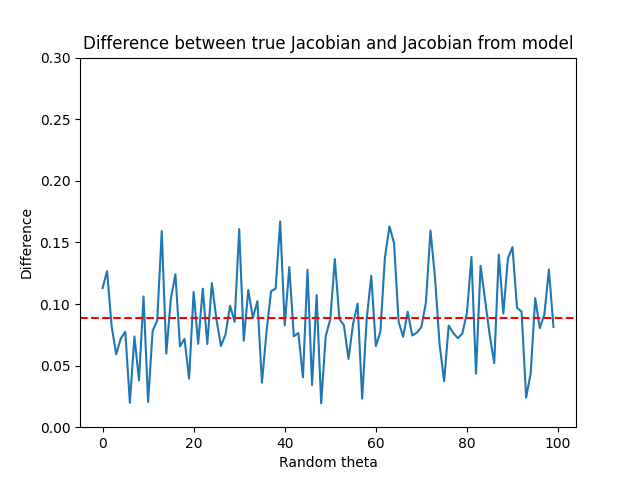
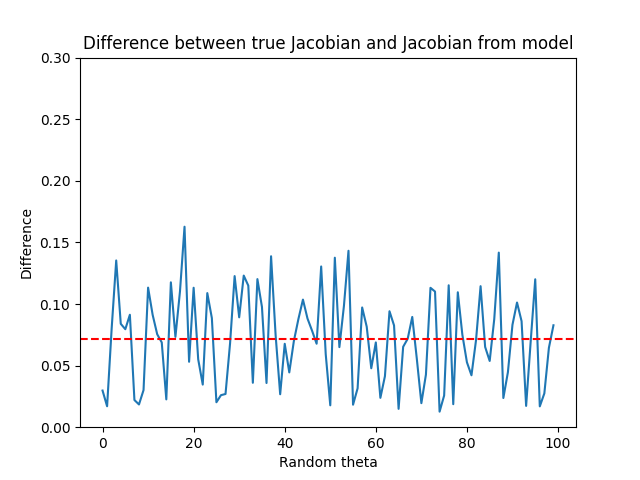
better inv_kin

Changed region(s): [[0.1562, 0.4688, 0.875, 0.8438]]

diff --git a/src/run.py b/src/run.py
@@ -1,6 +1,7 @@
 import parse
 import models
 import jacobian
+import inverse_kin
 import numpy as np
 import matplotlib.pyplot as plt
 import tensorflow as tf
@@ -135,123 +136,65 @@ if __name__ == "__main__":
     # ------------------------------------------------------------------------
     # Inverse Kinematics
 
-    newton = True
-    dbg = False
+    NEWTON = False
+    NUM_IT = 500
+    STRESS_TEST = False
 
-    max_it_reached = 0
-    err_avg_max_it = None
-    err_avg_break = None
+    if STRESS_TEST:
 
-    for _ in range(100):
+        err_avg_break = 0
+        err_avg_max_it = 0
+        tot_max_it_reached = 0
 
-        curr_theta = np.random.random((NJOINT,)).astype(np.float32) * 2 * np.pi
-        curr_theta = tf.Variable(curr_theta)
+        for i in range(100):
+
+            in_theta = np.random.random((NJOINT,)).astype(np.float32) * 2 * np.pi
+            goal_pos = np.random.random((DIM,)).astype(np.float32)
+            goal_pos = goal_pos / np.linalg.norm(goal_pos) * 0.1*NJOINT * np.random.random()
+
+            final_theta, err, max_it_reached = inverse_kin.inverse_kinematic(model, in_theta, goal_pos,
+                                                                            newton=NEWTON, num_it=NUM_IT)
+
+            if max_it_reached == 1:
+                err_avg_max_it = (tot_max_it_reached*err_avg_max_it + err) / (tot_max_it_reached+1)
+                tot_max_it_reached += 1
+            else:
+                break_reached = i - tot_max_it_reached
+                err_avg_break = (break_reached*err_avg_break + err) / (break_reached+1)
+
+
+        print(f"Max iteration reached: {tot_max_it_reached} / 100")
+        print("Average error at max iteration:", err_avg_max_it)
+        print("Average error at break:", err_avg_break)
+
+        # 100 iterations, Newton-Raphson
+        # Max iteration reached: 64 / 100
+        # Average error at max iteration: 0.318262
+        # Average error at break: -4.885498e-07
+
+        # 500 iterations, Newton-Raphson
+        # Max iteration reached: 70 / 100
+        # Average error at max iteration: 0.31624046
+        # Average error at break: -1.8805721e-07
+
+        # 100 iterations, Levenberg-Marquardt
+        # Max iteration reached: 82 / 100 
+        # Average error at max iteration: 0.06085123
+        # Average error at break: 0.00099721
+
+        # 500 iterations, Levenberg-Marquardt
+        # Max iteration reached: 33 / 100
+        # Average error at max iteration: 0.118702054
+        # Average error at break: 0.00098943
+    
+    else:
+        in_theta = np.random.random((NJOINT,)).astype(np.float32) * 2 * np.pi
         goal_pos = np.random.random((DIM,)).astype(np.float32)
         goal_pos = goal_pos / np.linalg.norm(goal_pos) * 0.1*NJOINT * np.random.random()
-        goal_pos = tf.Variable(goal_pos)
 
-        if dbg:
-            print("Initial theta:", curr_theta.numpy())
-            print("Initial position:", jacobian.FK(model, curr_theta).numpy())
-            print("Target position:", goal_pos.numpy())
+        final_theta, err, max_it_reached = inverse_kin.inverse_kinematic(model, in_theta, goal_pos,
+                                                                        newton=NEWTON, num_it=NUM_IT, dbg=True)
 
-
-        if newton:
-
-            ##########################################################################
-            # Newton-Raphson Method
-            # x_{n+1} = x_n - J^-1 * f(x_n)
-            ##########################################################################
-
-            for i in range(100):
-                J = jacobian.FK_Jacobian(model, curr_theta)
-                J_inv = tf.linalg.pinv(J)
-                err = jacobian.FK(model, curr_theta) - goal_pos  
-
-                # From (DIM,) to (DIM, 1) and then back to (DIM,)
-                delta_theta = -tf.matmul(J_inv, tf.reshape(err, (-1, 1)))
-                delta_theta = tf.reshape(delta_theta, (-1,))
-
-                curr_theta.assign_add(delta_theta)
-                curr_theta.assign(tf.math.floormod(curr_theta, 2*np.pi))
-
-                if tf.reduce_sum(tf.abs(err)) < 1e-3:
-                    if dbg:
-                        print(f"Break at iteration {i}")
-                    err = tf.reduce_sum(tf.abs(err))
-                    break_reached = i + 1 - max_it_reached
-                    err_avg_break = err if err_avg_break is None else (break_reached*err_avg_break + err) / (break_reached+1)
-                    break
-            else:
-                if dbg:
-                    print("Max num iteration reached")
-                err = tf.reduce_sum(tf.abs(err))
-                err_avg_max_it = err if err_avg_max_it is None else (max_it_reached*err_avg_max_it + err) / (max_it_reached+1)
-                max_it_reached += 1
-
-        else:
-
-            ##########################################################################
-            # Levenberg-Marquardt
-            # x_{n+1} = x_n - (J^T * J + lambda * I)^-1 * J^T * f(x_n)
-            ##########################################################################
-
-            for i in range(500):
-                J = jacobian.FK_Jacobian(model, curr_theta)
-                J_T = tf.transpose(J)
-                err = jacobian.FK(model, curr_theta) - goal_pos  
-
-                lambda_ = 0.1
-                delta_theta = -tf.matmul(tf.linalg.inv(tf.matmul(J_T, J) + lambda_ * tf.eye(NJOINT)), tf.matmul(J_T, tf.reshape(err, (-1, 1))))
-                delta_theta = tf.reshape(delta_theta, (-1,))
-
-                curr_theta.assign_add(delta_theta)
-                curr_theta.assign(tf.math.floormod(curr_theta, 2*np.pi))
-
-                if tf.reduce_sum(tf.abs(err)) < 1e-3:
-                    if dbg:
-                        print(f"Break at iteration {i}")
-                    err = tf.reduce_sum(tf.abs(err))
-                    break_reached = i + 1 - max_it_reached
-                    err_avg_break = err if err_avg_break is None else (break_reached*err_avg_break + err) / (break_reached+1)
-                    break
-            else:
-                if dbg:
-                    print("Max num iteration reached")
-                err = tf.reduce_sum(tf.abs(err))
-                err_avg_max_it = err if err_avg_max_it is None else (max_it_reached*err_avg_max_it + err) / (max_it_reached+1)
-                max_it_reached += 1
-                
-
-        if dbg:
-            print()
-            print("Final theta:", curr_theta.numpy())
-            print("Final position:", jacobian.FK(model, curr_theta).numpy())
-            print("True position:", jacobian.fwd_kin_true(curr_theta).numpy())
-            print("Target:", goal_pos.numpy())
-
-    print(f"Max iteration reached: {max_it_reached} / 100")
-    print("Average error at max iteration:", err_avg_max_it.numpy())
-    print("Average error at break:", err_avg_break.numpy())
-
-    # 100 iterations, Newton-Raphson
-    # Max iteration reached: 64 / 100
-    # Average error at max iteration: 0.318262
-    # Average error at break: -4.885498e-07
-
-    # 500 iterations, Newton-Raphson
-    # Max iteration reached: 70 / 100
-    # Average error at max iteration: 0.31624046
-    # Average error at break: -1.8805721e-07
-
-    # 100 iterations, Levenberg-Marquardt
-    # Max iteration reached: 82 / 100 
-    # Average error at max iteration: 0.06085123
-
-    # 500 iterations, Levenberg-Marquardt
-    # Max iteration reached: 33 / 100
-    # Average error at max iteration: 0.118702054
-    # Average error at break: 0.00098943
 
 
 # 2 OUTPUT

diff --git a/src/inverse_kin.py b/src/inverse_kin.py
@@ -1,4 +1,5 @@
 import jacobian
+import numpy as np
 import tensorflow as tf
 
 def inverse_kinematic(model, in_theta, goal_pos, num_it=500, lambda_=0.1, dbg=False, newton=False):
@@ -8,7 +9,7 @@ def inverse_kinematic(model, in_theta, goal_pos, num_it=500, lambda_=0.1, dbg=Fa
 
     curr_theta = tf.Variable(in_theta)
     goal_pos = tf.Variable(goal_pos)
-    break_reached = -1
+    max_it_reached = -1
 
     njoint = in_theta.shape[0]
 
@@ -26,9 +27,17 @@ def inverse_kinematic(model, in_theta, goal_pos, num_it=500, lambda_=0.1, dbg=Fa
         ##########################################################################
 
         for i in range(num_it):
+            err = jacobian.FK(model, curr_theta) - goal_pos  
+
+            if tf.reduce_sum(tf.abs(err)) < 1e-3:
+                if dbg:
+                    print(f"Break at iteration {i}")
+                err = tf.reduce_sum(tf.abs(err))
+                max_it_reached = 0
+                break
+            
             J = jacobian.FK_Jacobian(model, curr_theta)
             J_inv = tf.linalg.pinv(J)
-            err = jacobian.FK(model, curr_theta) - goal_pos  
 
             # From (DIM,) to (DIM, 1) and then back to (DIM,)
             delta_theta = -tf.matmul(J_inv, tf.reshape(err, (-1, 1)))
@@ -36,18 +45,11 @@ def inverse_kinematic(model, in_theta, goal_pos, num_it=500, lambda_=0.1, dbg=Fa
 
             curr_theta.assign_add(delta_theta)
             curr_theta.assign(tf.math.floormod(curr_theta, 2*np.pi))
-
-            if tf.reduce_sum(tf.abs(err)) < 1e-3:
-                if dbg:
-                    print(f"Break at iteration {i}")
-                err = tf.reduce_sum(tf.abs(err))
-                break_reached = 1
-                break
         else:
             if dbg:
                 print("Max num iteration reached")
-            err = tf.reduce_sum(tf.abs(err))
-            break_reached = 0
+            err = tf.reduce_sum(tf.abs(jacobian.FK(model, curr_theta) - goal_pos))
+            max_it_reached = 1
 
     else:
 
@@ -57,9 +59,17 @@ def inverse_kinematic(model, in_theta, goal_pos, num_it=500, lambda_=0.1, dbg=Fa
         ##########################################################################
 
         for i in range(num_it):
+            err = jacobian.FK(model, curr_theta) - goal_pos  
+            
+            if tf.reduce_sum(tf.abs(err)) < 1e-3:
+                if dbg:
+                    print(f"Break at iteration {i}")
+                err = tf.reduce_sum(tf.abs(err))
+                max_it_reached = 0
+                break
+            
             J = jacobian.FK_Jacobian(model, curr_theta)
             J_T = tf.transpose(J)
-            err = jacobian.FK(model, curr_theta) - goal_pos  
 
             delta_theta = -tf.matmul(tf.linalg.inv(tf.matmul(J_T, J) + lambda_ * tf.eye(njoint)), tf.matmul(J_T, tf.reshape(err, (-1, 1))))
             delta_theta = tf.reshape(delta_theta, (-1,))
@@ -67,17 +77,11 @@ def inverse_kinematic(model, in_theta, goal_pos, num_it=500, lambda_=0.1, dbg=Fa
             curr_theta.assign_add(delta_theta)
             curr_theta.assign(tf.math.floormod(curr_theta, 2*np.pi))
 
-            if tf.reduce_sum(tf.abs(err)) < 1e-3:
-                if dbg:
-                    print(f"Break at iteration {i}")
-                err = tf.reduce_sum(tf.abs(err))
-                break_reached = 1
-                break
         else:
             if dbg:
                 print("Max num iteration reached")
-            err = tf.reduce_sum(tf.abs(err))
-            break_reached = 0
+            err = tf.reduce_sum(tf.abs(jacobian.FK(model, curr_theta) - goal_pos))
+            max_it_reached = 1
             
 
     if dbg:
@@ -87,4 +91,4 @@ def inverse_kinematic(model, in_theta, goal_pos, num_it=500, lambda_=0.1, dbg=Fa
         print("True position:", jacobian.fwd_kin_true(curr_theta).numpy())
         print("Target:", goal_pos.numpy())
 
-    return curr_theta.numpy(), err.numpy(), break_reached
+    return curr_theta.numpy(), err.numpy(), max_it_reached
